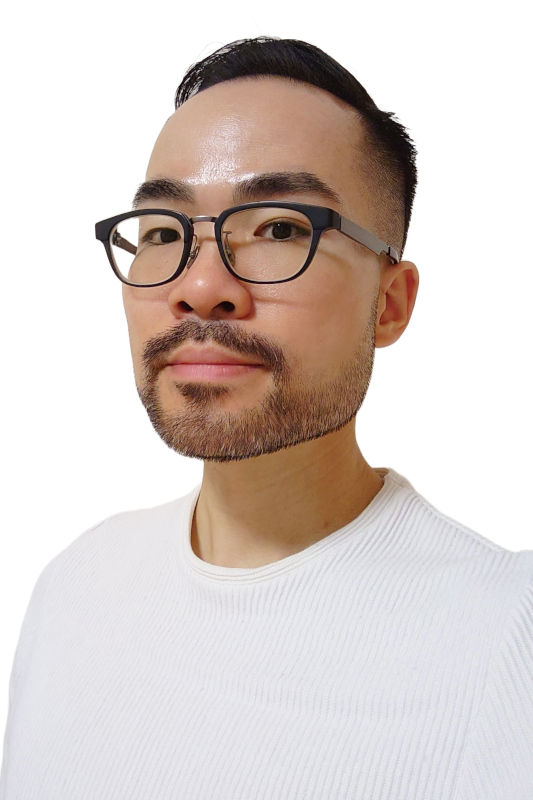
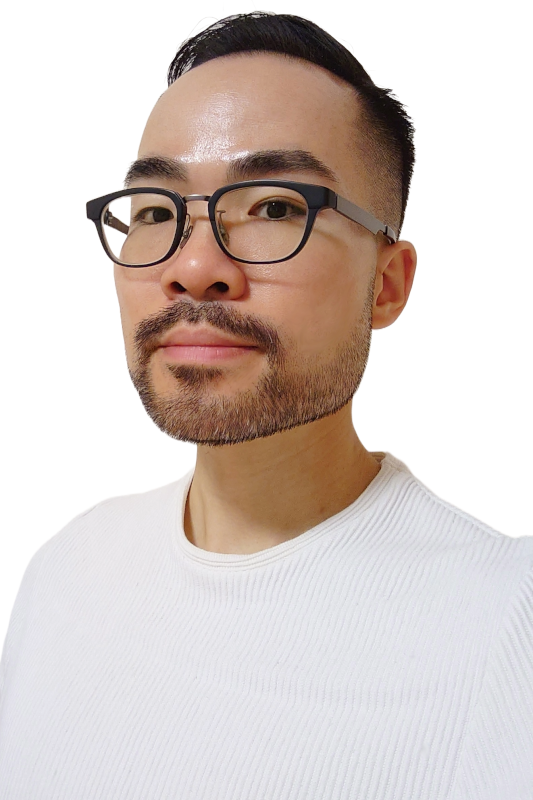
Added styles to the self-introduction.

Changed region(s): [[0.0, 0.0, 1.0, 0.9375]]

diff --git a/src/pages/Home/Home.tsx b/src/pages/Home/Home.tsx
@@ -87,7 +87,7 @@ function HomePageHeader() {
           </div>
         ))}
       </ul>
-      <ul className="my-6 w-full flex flex-col sm:flex-row gap-8 justify-center items-center text-base text-slate-800">
+      <ul className="my-8 w-full flex flex-col sm:flex-row gap-8 justify-center items-center text-base text-slate-800">
         <CtaButton
           gradientColor="var(--color-accent), transparent, var(--color-complement), var(--color-accent)"
           link="/project"
@@ -95,7 +95,7 @@ function HomePageHeader() {
           priority="primary"
         >
           <ScanSearch width={20} />
-          View Projects
+          <span className="font-medium">View Projects</span>
         </CtaButton>
         <CtaButton
           gradientColor="color-mix(in oklch, var(--color-accent) 5%, transparent), color-mix(in oklch, var(--color-accent) 60%, transparent), color-mix(in oklch, var(--color-accent) 10%, transparent)"
@@ -114,7 +114,7 @@ function HomePageHeader() {
           priority="tertiary"
         >
           <MessageCircleMore width={20} />
-          Contact Me
+          Contact
         </CtaButton>
         {/* <li className={ctaLiClass}>
           <GlowOutline
@@ -151,9 +151,11 @@ function HomePageHeader() {
           </a>
         </li> */}
       </ul>
-      <p className="text-base text-center max-w-prose lg:text-lg">
-        {content.statement}
-      </p>
+      <div className="bg-slate-600/10 rounded-r-md border-l-4 border-l-accent mb-8">
+        <p className="text-base max-w-prose px-6 py-2 lg:text-lg sm:whitespace-pre-line sm:text-center">
+          {content.statement}
+        </p>
+      </div>
     </div>
   );
 }
@@ -204,10 +206,10 @@ function CtaButton({
     <motion.li
       className={`relative flex-1 ${
         priority === "primary"
-          ? "w-[280px] sm:max-w-[200px]"
+          ? "w-[280px] sm:max-w-[210px]"
           : priority === "secondary"
           ? "w-[200px] sm:max-w-[180px]"
-          : "w-[200px] sm:max-w-[170px]"
+          : "w-[200px] sm:max-w-[150px]"
       }`}
       animate="rest"
       whileHover="hover"
@@ -219,13 +221,16 @@ function CtaButton({
         rounded="rounded-full"
       />
       {useNavLink ? (
-        <NavLink to={link} className={`${linkStyle} ${bgColor || ""}`}>
+        <NavLink
+          to={link}
+          className={`${linkStyle} ${bgColor || ""} text-slate-800`}
+        >
           {children}
         </NavLink>
       ) : (
         <a
           href={link}
-          className={`${linkStyle} ${bgColor || ""}`}
+          className={`${linkStyle} ${bgColor || ""} text-slate-500`}
           {...linkProps}
         >
           {children}
@@ -248,7 +253,7 @@ function Portrait() {
         </defs>
       </svg>
 
-      <div className="relative w-50 aspect-[1/1.5]">
+      <div className="relative w-30 sm:w-50 aspect-[1/1.5]">
         <div className="absolute aspect-square bottom-0 w-full">
           <GlowOutline
             gradient="conic-gradient(from 0deg, transparent, color-mix(in oklch, var(--color-accent) 10%, transparent), var(--color-complement), var(--color-accent), var(--color-complement), color-mix(in oklch, var(--color-accent) 10%, transparent), transparent)"

diff --git a/src/contexts/homeContext.ts b/src/contexts/homeContext.ts
@@ -20,7 +20,7 @@ export const homeContent = {
     "RMIT Tutor",
   ],
   statement:
-    "I craft engaging digital experiences — from immersive games to intuitive educational platforms — blending technical expertise with creative problem-solving to deliver solutions that make an impact.",
+    "I craft engaging digital experiences \n — from immersive games to intuitive educational platforms — \n blending technical expertise with creative problem-solving \n to deliver solutions that make an impact.",
   highlight: [
     { title: "YoPlay", desc: "Large-scale multiplayer casual casino platform" },
     {

diff --git a/src/pages/PageBase.tsx b/src/pages/PageBase.tsx
@@ -14,7 +14,7 @@ export default function PageBase({
 }) {
   const headingClassName = "mb-2";
   return (
-    <main className="px-4">
+    <main className="px-8">
       <header className={`mb-2 ${headerClassName || ""}`}>
         {headerElement ? (
           headerElement(headingClassName)

diff --git a/src/index.css b/src/index.css
@@ -6,6 +6,10 @@
   /* For hero page and all headings */
   --font-display: "Manrope", system-ui, sans-serif;
 
+  --font-quote: Georgia, serif;
+
+  --breakpoint-xs: 30rem;
+
   --color-bg: theme(colors.neutral.50);
 
   --color-primary: theme(colors.neutral.900);
